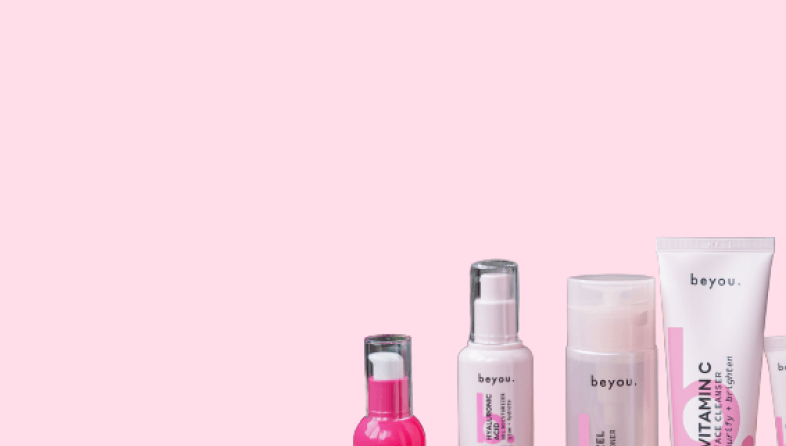
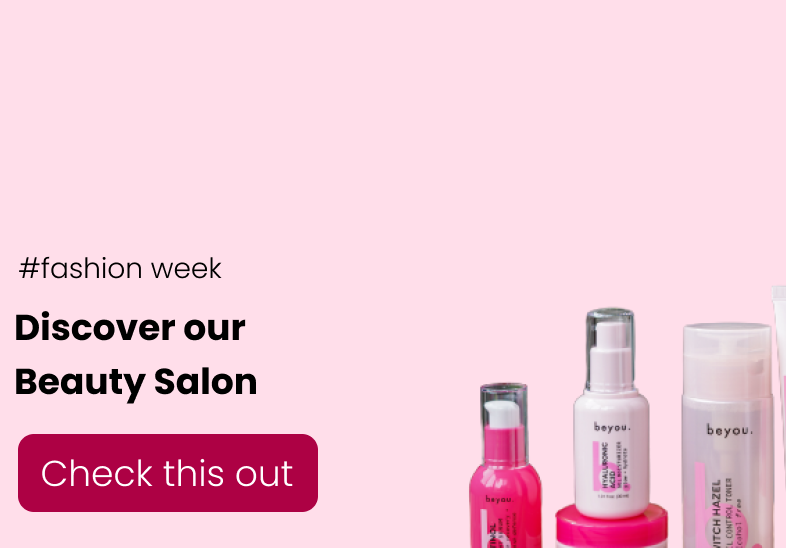
update on home_carousel_slider.dart 🛠

diff --git a/lib/widgets/home_carousel_slider.dart b/lib/widgets/home_carousel_slider.dart
@@ -27,87 +27,19 @@ class _HomeCarouselSliderState extends State<HomeCarouselSlider> {
           fit: BoxFit.fitHeight,
           height: 40.h,
         ),
-        Padding(
-          padding: EdgeInsets.only(
-            top: kToolbarHeight,
-            left: 5.w,
-          ),
-          child: Column(
-            mainAxisAlignment: MainAxisAlignment.center,
-            crossAxisAlignment: CrossAxisAlignment.start,
-            children: [
-              Text(
-                '#Fashion day',
-                style: TextStyle(fontWeight: FontWeight.w300, fontSize: 12.sp),
-              ),
-              spaceV(0.5.h),
-              Text('80% OFF',
-                  style:
-                      TextStyle(fontWeight: FontWeight.w600, fontSize: 20.sp)),
-              spaceV(0.5.h),
-              Text('Discover Fashion',
-                  style:
-                      TextStyle(fontWeight: FontWeight.w300, fontSize: 16.sp)),
-              spaceV(1.h),
-              ElevatedButton(
-                style: ElevatedButton.styleFrom(
-                    backgroundColor: Colors.black87,
-                    shape: RoundedRectangleBorder(
-                        borderRadius: BorderRadius.circular(8))),
-                onPressed: () {},
-                child: Padding(
-                  padding: const EdgeInsets.all(8.0),
-                  child: Text('Check this out',
-                      style: TextStyle(
-                          fontWeight: FontWeight.w300, fontSize: 12.sp)),
-                ),
-              )
-            ],
-          ),
-        )
       ],
     ),
     Stack(
       children: [
-        Image.asset(
-          AppAssets.advertTwo,
-          fit: BoxFit.fitHeight,
-          height: 40.h,
+        Positioned(
+          bottom: 0,
+          left: 0,
+          child: Image.asset(
+            AppAssets.advertTwo,
+            fit: BoxFit.fitHeight,
+            height: 40.h,
+          ),
         ),
-        Padding(
-          padding: EdgeInsets.only(
-            top: kToolbarHeight,
-            left: 5.w,
-          ),
-          child: Column(
-            mainAxisAlignment: MainAxisAlignment.center,
-            crossAxisAlignment: CrossAxisAlignment.start,
-            children: [
-              Text(
-                '#Fashion day',
-                style: TextStyle(fontWeight: FontWeight.w300, fontSize: 12.sp),
-              ),
-              spaceV(0.5.h),
-              Text('Discover our\nbeauty section',
-                  style:
-                      TextStyle(fontWeight: FontWeight.w600, fontSize: 20.sp)),
-              spaceV(1.h),
-              ElevatedButton(
-                style: ElevatedButton.styleFrom(
-                    backgroundColor: Colors.black87,
-                    shape: RoundedRectangleBorder(
-                        borderRadius: BorderRadius.circular(8))),
-                onPressed: () {},
-                child: Padding(
-                  padding: const EdgeInsets.all(8.0),
-                  child: Text('Check this out',
-                      style: TextStyle(
-                          fontWeight: FontWeight.w300, fontSize: 12.sp)),
-                ),
-              )
-            ],
-          ),
-        )
       ],
     ),
   ];
@@ -125,7 +57,7 @@ class _HomeCarouselSliderState extends State<HomeCarouselSlider> {
               viewportFraction: 1,
               enableInfiniteScroll: true,
               autoPlay: true,
-              autoPlayInterval: const Duration(seconds:5),
+              autoPlayInterval: const Duration(seconds: 5),
               autoPlayAnimationDuration: const Duration(milliseconds: 800),
               autoPlayCurve: Curves.easeInOut,
               onPageChanged: (index, reason) {
